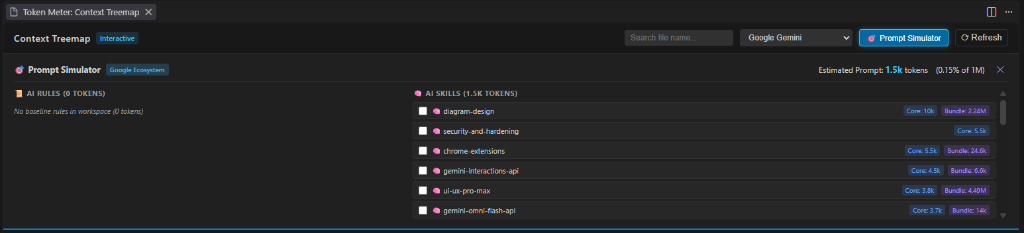
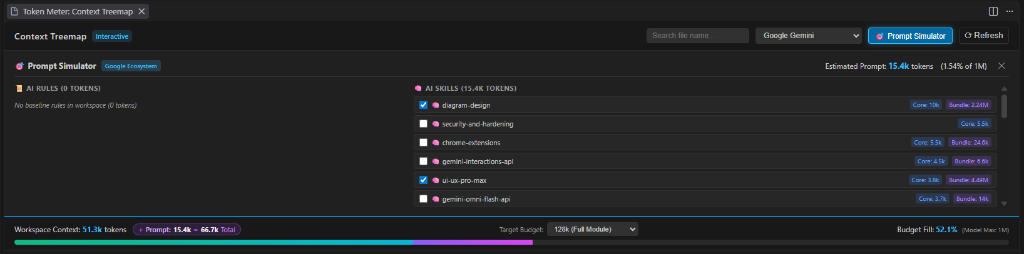
feat: add segmented context bar and live prompt formula display (v0.1.2)

diff --git a/src/webview/main.ts b/src/webview/main.ts
@@ -288,6 +288,73 @@ function parseTokenString(str: string): number {
   return isNaN(num) ? 0 : num;
 }
 
+let currentEstimatedPrompt = 0;
+
+function updateBudgetMeter(payload: WebviewPayload, simPrompt: number) {
+  currentEstimatedPrompt = simPrompt;
+
+  const totalTokensEl = document.getElementById('stat-total-tokens');
+  const modelMaxEl = document.getElementById('stat-model-max');
+  const fillPctEl = document.getElementById('stat-fill-pct');
+  const simPlusContainer = document.getElementById('stat-sim-plus-container');
+  const simTokensEl = document.getElementById('stat-sim-tokens');
+  const combinedTokensEl = document.getElementById('stat-combined-tokens');
+
+  const meterFillWorkspace = document.getElementById('budget-meter-fill-workspace');
+  const meterFillSim = document.getElementById('budget-meter-fill-sim');
+  const trackContainer = document.getElementById('budget-track-container');
+
+  const workspaceTotal = payload.totalTokens || 0;
+  const combinedTotal = workspaceTotal + simPrompt;
+  const modelMaxLimit = payload.activeModel.contextLimit || 200000;
+
+  const effectiveLimit = activeTargetBudget === 'auto' ? modelMaxLimit : activeTargetBudget;
+  const workspacePct = (workspaceTotal / effectiveLimit) * 100;
+  const simPct = (simPrompt / effectiveLimit) * 100;
+  const combinedPct = (combinedTotal / effectiveLimit) * 100;
+
+  if (totalTokensEl) totalTokensEl.textContent = formatTokenNumber(workspaceTotal);
+  if (modelMaxEl) modelMaxEl.textContent = formatTokenNumber(modelMaxLimit);
+
+  if (simPlusContainer && simTokensEl && combinedTokensEl) {
+    if (simPrompt > 0) {
+      simPlusContainer.classList.remove('hidden');
+      simTokensEl.textContent = formatTokenNumber(simPrompt);
+      combinedTokensEl.textContent = formatTokenNumber(combinedTotal);
+    } else {
+      simPlusContainer.classList.add('hidden');
+    }
+  }
+
+  if (fillPctEl) {
+    fillPctEl.textContent = `${combinedPct.toFixed(1)}%`;
+    if (combinedPct > 100) {
+      fillPctEl.style.color = '#ef4444';
+    } else {
+      fillPctEl.style.color = '#38bdf8';
+    }
+  }
+
+  if (trackContainer) {
+    if (combinedPct > 100) {
+      trackContainer.classList.add('overflow');
+    } else {
+      trackContainer.classList.remove('overflow');
+    }
+  }
+
+  if (meterFillWorkspace) {
+    const wsFillWidth = Math.min(100, workspacePct);
+    meterFillWorkspace.style.width = `${wsFillWidth}%`;
+  }
+
+  if (meterFillSim) {
+    const remainingWidth = Math.max(0, 100 - Math.min(100, workspacePct));
+    const simFillWidth = Math.min(remainingWidth, simPct);
+    meterFillSim.style.width = `${simFillWidth}%`;
+  }
+}
+
 function updateUI(payload: WebviewPayload) {
   // Update model select options
   const modelSelect = document.getElementById('model-select') as HTMLSelectElement;
@@ -302,43 +369,8 @@ function updateUI(payload: WebviewPayload) {
     });
   }
 
-  // Update budget meter bar & target limit
-  const totalTokensEl = document.getElementById('stat-total-tokens');
-  const modelMaxEl = document.getElementById('stat-model-max');
-  const fillPctEl = document.getElementById('stat-fill-pct');
-  const meterFill = document.getElementById('budget-meter-fill');
-
-  const total = payload.totalTokens || 0;
-  const modelMaxLimit = payload.activeModel.contextLimit || 200000;
-  
-  // Calculate effective target limit (Auto model max or User selected limit)
-  const effectiveLimit = activeTargetBudget === 'auto' ? modelMaxLimit : activeTargetBudget;
-  const rawPct = (total / effectiveLimit) * 100;
-  const fillWidth = Math.min(100, rawPct);
-
-  if (totalTokensEl) totalTokensEl.textContent = formatTokenNumber(total);
-  if (modelMaxEl) modelMaxEl.textContent = formatTokenNumber(modelMaxLimit);
-  if (fillPctEl) {
-    fillPctEl.textContent = `${rawPct.toFixed(1)}%`;
-    if (rawPct > 100) {
-      fillPctEl.style.color = '#ef4444';
-    } else {
-      fillPctEl.style.color = '#38bdf8';
-    }
-  }
-
-  if (meterFill) {
-    meterFill.style.width = `${fillWidth}%`;
-    if (rawPct < 40) {
-      meterFill.style.backgroundColor = '#10b981'; // green
-    } else if (rawPct < 75) {
-      meterFill.style.backgroundColor = '#eab308'; // yellow
-    } else if (rawPct <= 100) {
-      meterFill.style.backgroundColor = '#f97316'; // orange
-    } else {
-      meterFill.style.backgroundColor = '#ef4444'; // red / overflow
-    }
-  }
+  // Update segmented budget meter bar & target limit
+  updateBudgetMeter(payload, currentEstimatedPrompt);
 
   // Render Treemap
   if (visualizer && payload.hierarchy && payload.hierarchy.length > 0) {
@@ -473,6 +505,9 @@ function calculateSimulatorTotal(payload: WebviewPayload) {
   if (simSkillsTokensEl) simSkillsTokensEl.textContent = formatTokenNumber(totalSkills + indexOverhead);
   if (simTotalTokensEl) simTotalTokensEl.textContent = formatTokenNumber(estimatedPrompt);
   if (simBudgetPctEl) simBudgetPctEl.textContent = `(${pct.toFixed(2)}% of ${formatTokenNumber(limit)})`;
+
+  // Update top segmented budget meter bar in real-time
+  updateBudgetMeter(payload, estimatedPrompt);
 }
 
 function renderBreadcrumbs(pathNodes: TreemapNodeData[], container: HTMLElement | null) {

diff --git a/src/webview/style.css b/src/webview/style.css
@@ -281,6 +281,50 @@ body {
   gap: 8px;
 }
 
+.meter-context-group {
+  display: flex;
+  align-items: center;
+  gap: 4px;
+  flex-wrap: wrap;
+}
+
+.stat-tokens-val {
+  color: #38bdf8 !important;
+}
+
+.stat-sim-tag {
+  display: inline-flex;
+  align-items: center;
+  gap: 4px;
+  margin-left: 6px;
+  padding: 1px 8px;
+  background: rgba(168, 85, 247, 0.15);
+  border: 1px solid rgba(168, 85, 247, 0.35);
+  border-radius: 12px;
+  font-size: 11px;
+  color: #c084fc;
+  animation: fadeIn 0.2s ease-in-out;
+}
+
+.stat-sim-tag strong {
+  color: #f3e8ff !important;
+}
+
+.sim-plus-operator, .sim-equals-operator {
+  color: #a855f7;
+  font-weight: bold;
+}
+
+.sim-tag-icon {
+  color: #d8b4fe;
+  font-weight: 500;
+}
+
+.stat-combined-val {
+  color: #38bdf8 !important;
+  font-weight: 700;
+}
+
 .meter-stats span strong {
   color: #38bdf8;
 }
@@ -298,42 +342,39 @@ body {
 
 .budget-select-control {
   background-color: var(--input-bg);
-  color: #38bdf8;
-  font-weight: 600;
   border: 1px solid var(--border-color);
-  padding: 2px 6px;
+  color: var(--fg-color);
   border-radius: 4px;
+  padding: 3px 6px;
   font-size: 11px;
-  outline: none;
   cursor: pointer;
+  outline: none;
   transition: border-color 0.15s ease;
 }
 
-.budget-select-control:focus, .budget-select-control:hover {
+.budget-select-control:focus {
   border-color: #38bdf8;
 }
 
 .custom-budget-input {
   background-color: var(--input-bg);
-  color: #38bdf8;
   border: 1px solid #38bdf8;
+  color: var(--fg-color);
   border-radius: 4px;
   padding: 2px 6px;
   font-size: 11px;
   width: 90px;
   outline: none;
-  font-weight: 600;
-  box-shadow: 0 0 6px rgba(56, 189, 248, 0.3);
+  box-shadow: 0 0 4px rgba(56, 189, 248, 0.3);
 }
 
 .btn-icon-tiny {
   background: #0284c7;
+  border: 1px solid #38bdf8;
   color: white;
-  border: none;
   border-radius: 3px;
-  padding: 2px 6px;
+  padding: 2px 5px;
   font-size: 11px;
-  font-weight: bold;
   cursor: pointer;
   display: flex;
   align-items: center;
@@ -371,18 +412,30 @@ body {
 .budget-track {
   width: 100%;
   height: 8px;
-  background-color: rgba(255, 255, 255, 0.1);
+  background-color: rgba(255, 255, 255, 0.08);
   border-radius: 4px;
   overflow: hidden;
   position: relative;
+  display: flex;
 }
 
-.budget-fill {
+.budget-fill-workspace {
   height: 100%;
   width: 0%;
-  background-color: #10b981;
-  border-radius: 4px;
-  transition: width 0.4s ease, background-color 0.4s ease;
+  background: linear-gradient(90deg, #10b981, #06b6d4);
+  transition: width 0.3s ease, background 0.3s ease;
+}
+
+.budget-fill-sim {
+  height: 100%;
+  width: 0%;
+  background: linear-gradient(90deg, #8b5cf6, #d946ef);
+  transition: width 0.3s ease, background 0.3s ease;
+}
+
+.budget-track.overflow .budget-fill-workspace,
+.budget-track.overflow .budget-fill-sim {
+  background: #ef4444 !important;
 }
 
 /* Sub-Nav Bar (Breadcrumbs + Legend) */

diff --git a/src/providers/treemapWebview.ts b/src/providers/treemapWebview.ts
@@ -141,7 +141,7 @@ export class TreemapPanel {
         <div class="controls-group">
           <input type="text" id="search-input" class="input-control" placeholder="Search file name..." />
           <select id="model-select" class="select-control"></select>
-          <button id="simulator-toggle-btn" class="btn-primary" title="Open Prompt & Skill Budget Simulator">🎯 Prompt Simulator</button>
+          <button id="simulator-toggle-btn" class="btn-primary" title="Open Prompt Simulator">🎯 Prompt Simulator</button>
           <button id="refresh-btn" class="btn-icon" title="Rescan Workspace">⟳ Refresh</button>
         </div>
       </div>
@@ -175,7 +175,17 @@ export class TreemapPanel {
 
       <div class="budget-meter-panel">
         <div class="meter-stats">
-          <span>Workspace Context: <strong id="stat-total-tokens">0</strong> tokens</span>
+          <div class="meter-context-group">
+            <span class="context-label">Workspace Context:</span>
+            <strong id="stat-total-tokens" class="stat-tokens-val">0</strong> tokens
+            <span id="stat-sim-plus-container" class="stat-sim-tag hidden">
+              <span class="sim-plus-operator">+</span>
+              <span class="sim-tag-icon">Prompt:</span>
+              <strong id="stat-sim-tokens">0</strong>
+              <span class="sim-equals-operator">=</span>
+              <strong id="stat-combined-tokens" class="stat-combined-val">0</strong> Total
+            </span>
+          </div>
           <div class="target-budget-group">
             <label for="budget-select">Target Budget:</label>
             <select id="budget-select" class="budget-select-control">
@@ -194,10 +204,13 @@ export class TreemapPanel {
             <input type="text" id="custom-budget-input" class="custom-budget-input hidden" placeholder="e.g. 50.000, 2M" />
             <button id="custom-budget-apply-btn" class="btn-icon-tiny hidden" title="Apply Custom Budget">✓</button>
           </div>
-          <span>Budget Fill: <strong id="stat-fill-pct">0.0%</strong> <span class="model-cap-hint">(Model Max: <span id="stat-model-max">1M</span>)</span></span>
+          <div class="meter-fill-group">
+            <span>Budget Fill: <strong id="stat-fill-pct">0.0%</strong> <span class="model-cap-hint">(Model Max: <span id="stat-model-max">1M</span>)</span></span>
+          </div>
         </div>
-        <div class="budget-track">
-          <div id="budget-meter-fill" class="budget-fill"></div>
+        <div id="budget-track-container" class="budget-track">
+          <div id="budget-meter-fill-workspace" class="budget-fill-workspace" title="Workspace Code"></div>
+          <div id="budget-meter-fill-sim" class="budget-fill-sim" title="Prompt Overhead (Rules + Skills)"></div>
         </div>
       </div>
 

diff --git a/src/constants.ts b/src/constants.ts
@@ -95,7 +95,8 @@ export const DEFAULT_EXCLUDES = [
   '**/package-lock.json',
   '**/yarn.lock',
   '**/pnpm-lock.yaml',
-  '**/bun.lockb'
+  '**/bun.lockb',
+  '**/*.vsix'
 ];
 
 /**
@@ -103,7 +104,7 @@ export const DEFAULT_EXCLUDES = [
  */
 export const BINARY_EXTENSIONS = new Set([
   'png', 'jpg', 'jpeg', 'gif', 'webp', 'ico', 'svgz', 'bmp', 'tiff', 'psd', 'ai',
-  'zip', 'tar', 'gz', 'bz2', '7z', 'rar', 'iso', 'dmg',
+  'zip', 'tar', 'gz', 'bz2', '7z', 'rar', 'iso', 'dmg', 'vsix',
   'mp4', 'mkv', 'avi', 'mov', 'wmv', 'flv', 'webm',
   'mp3', 'wav', 'flac', 'ogg', 'aac', 'm4a',
   'pdf', 'doc', 'docx', 'xls', 'xlsx', 'ppt', 'pptx',

diff --git a/CHANGELOG.md b/CHANGELOG.md
@@ -7,6 +7,16 @@ and this project adheres to [Semantic Versioning](https://semver.org/spec/v2.0.0
 
 ---
 
+## [0.1.2] - 2026-08-30
+
+### 🌟 New Features & Enhancements
+* **Segmented Context Progress Bar**: Multi-colored dual-segment capacity bar visually splitting workspace code (cyan/green) and simulated prompt overhead (purple).
+* **Live Prompt Formula Display**: Real-time context formula in the header (`Workspace Context: 51.3k tokens + Prompt: 15.4k = 66.7k Total`).
+* **Binary Exclusion Fix**: Automatically excludes `.vsix` binary archive packages from workspace token counts.
+* **UI Polish**: Simplified Prompt Simulator button tooltip and updated visual documentation assets.
+
+---
+
 ## [0.1.1] - 2026-08-30
 
 ### 📖 Documentation & Global Release
